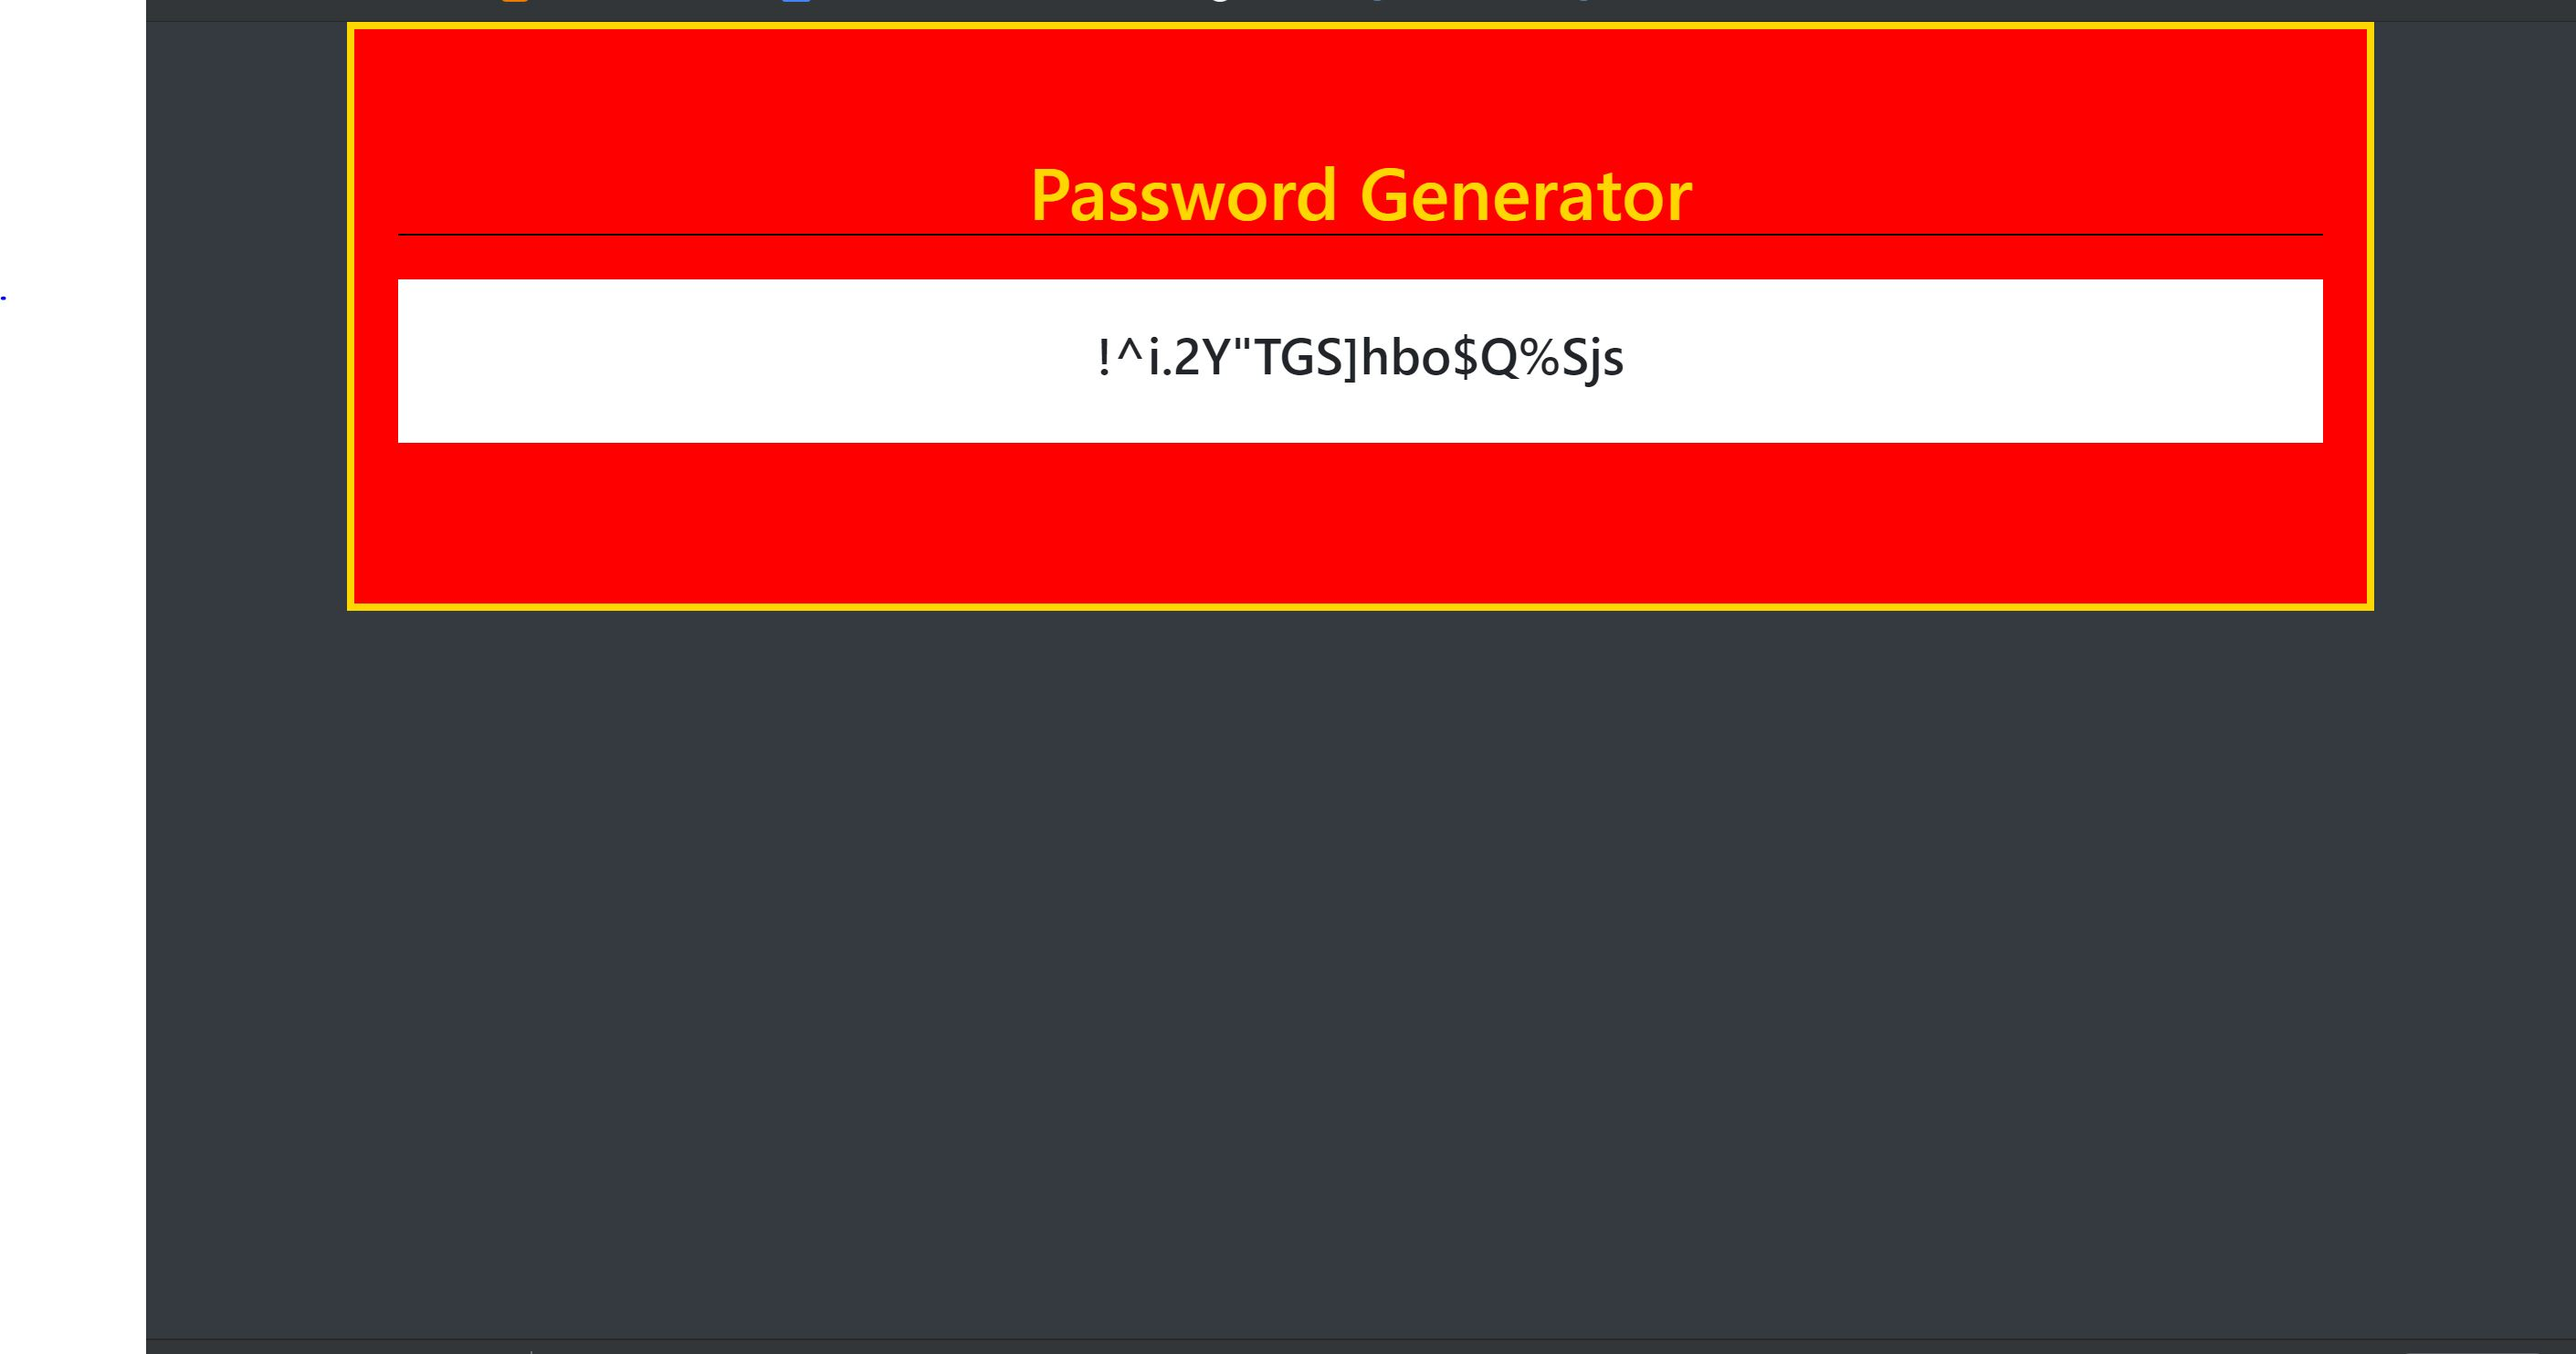
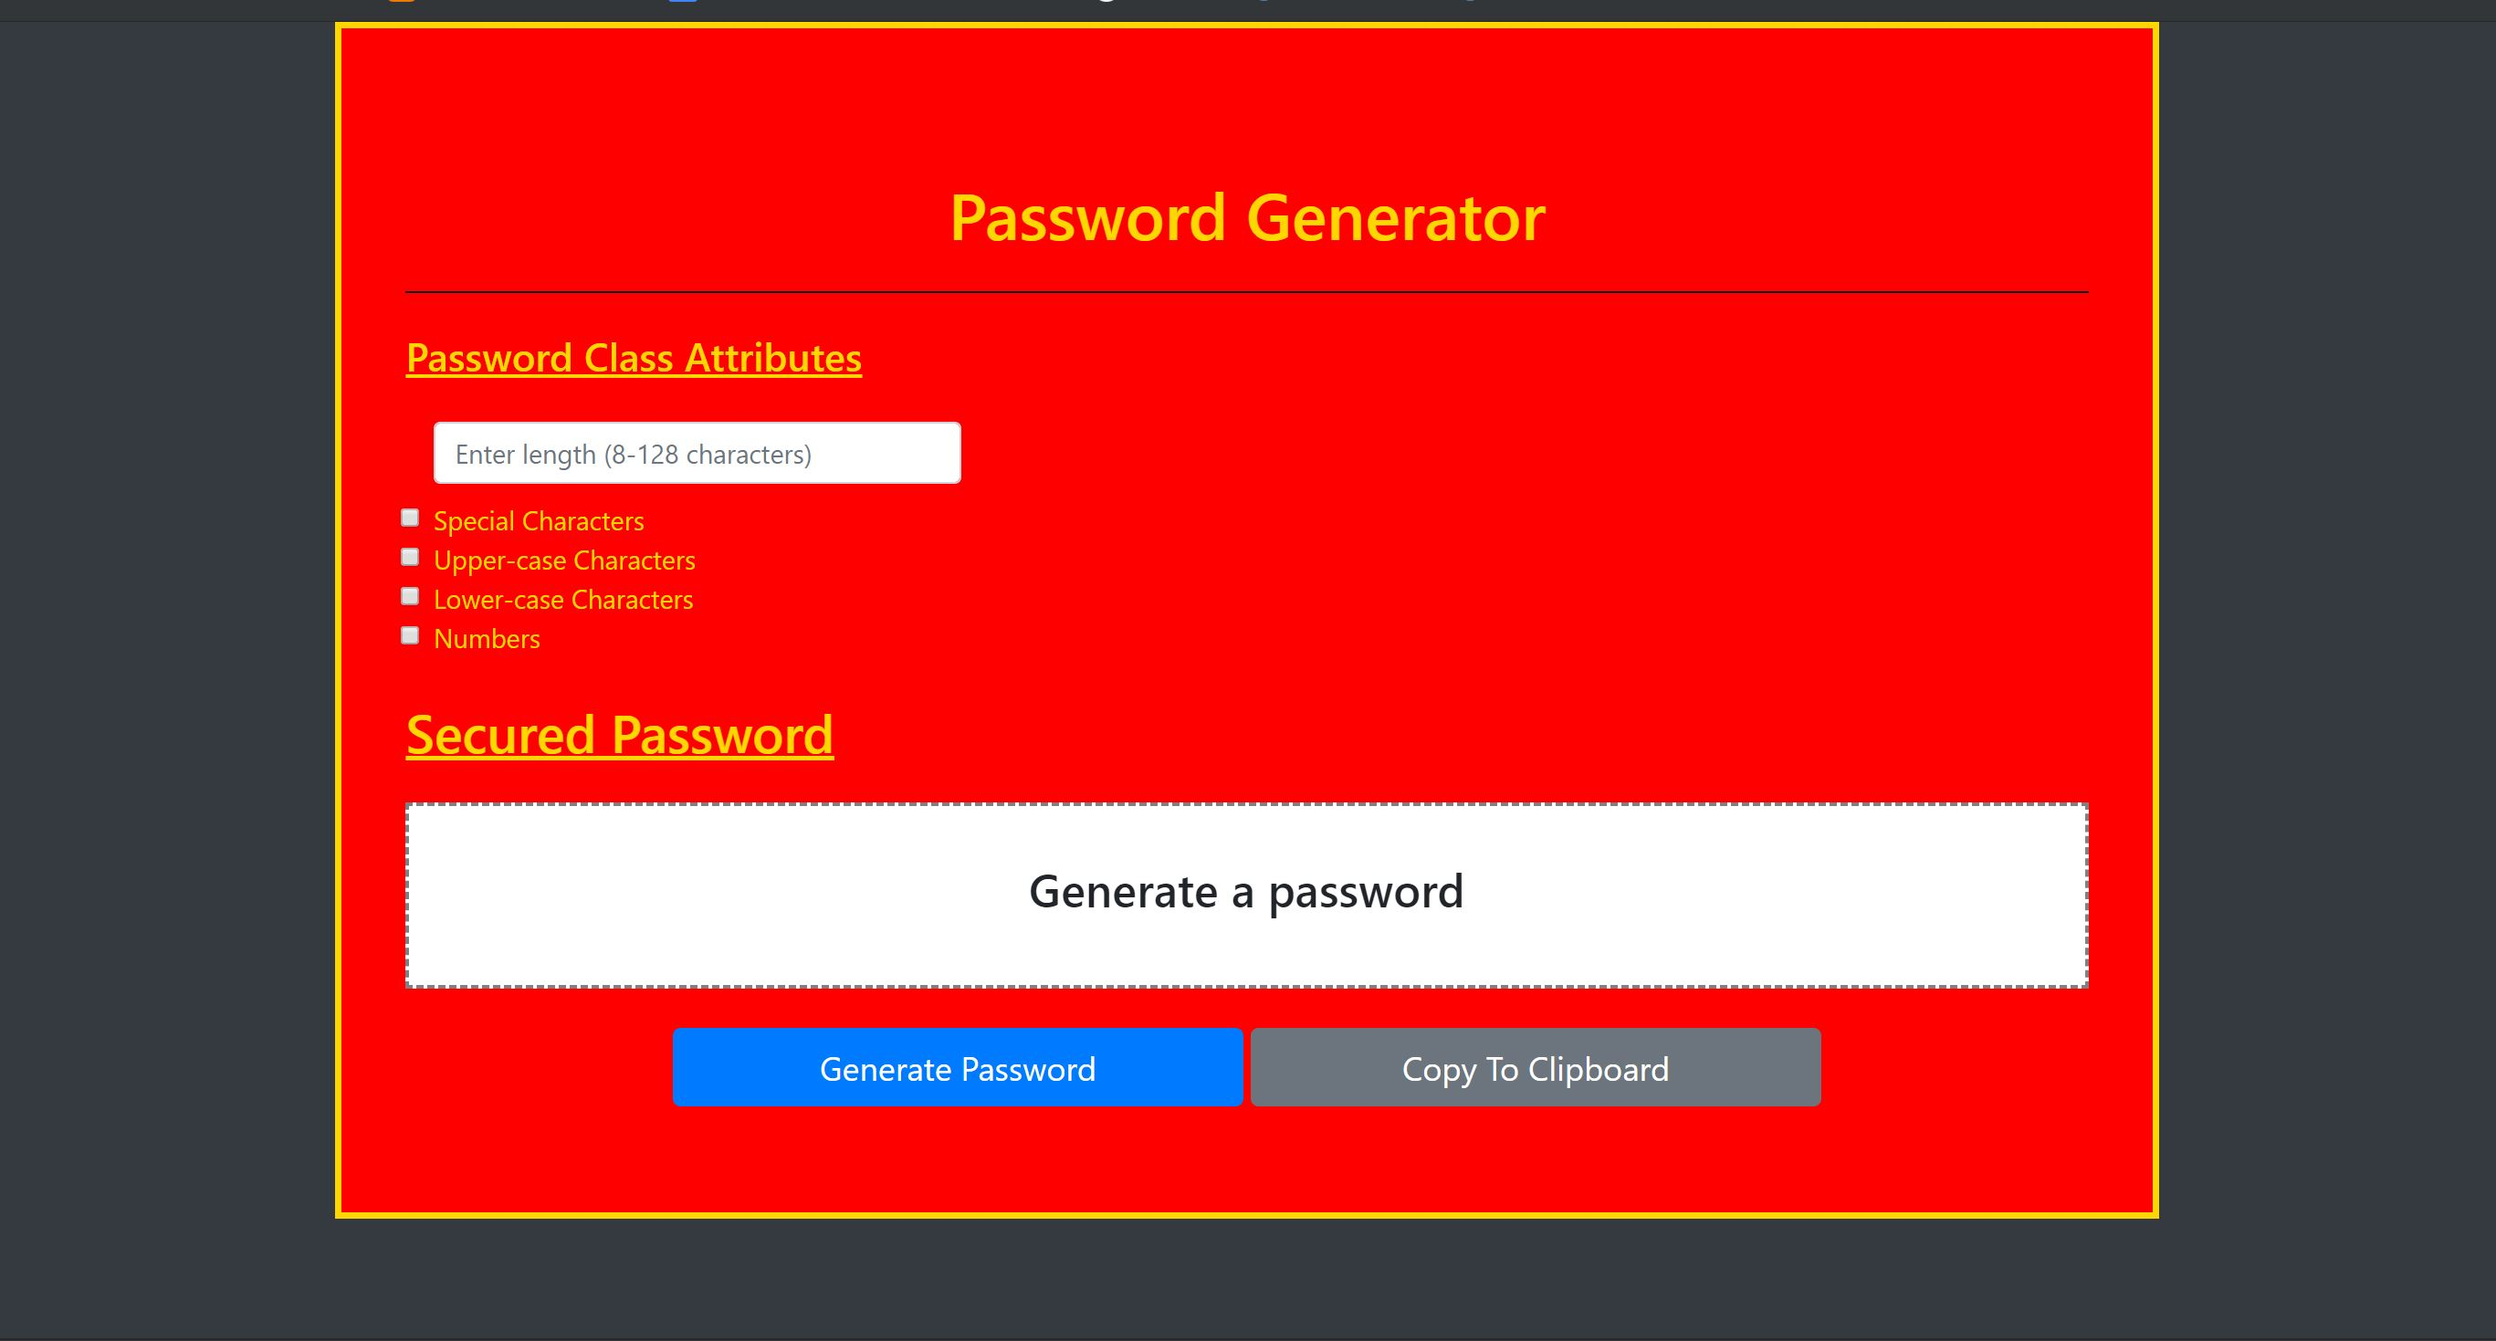
Clipboard copy functionality has been added

diff --git a/script.js b/script.js
@@ -58,8 +58,10 @@ document.getElementById("generate").addEventListener("click",function()
                         charList = charList + numbers;
                     }
 
+                document.querySelector("#password").value = pwGen(charList,passwordLength);
                 document.querySelector("#password").innerHTML = pwGen(charList,passwordLength);
-                
+                document.querySelector("#password").innertText = pwGen(charList,passwordLength);
+
             }
 
     });
@@ -67,11 +69,10 @@ document.getElementById("generate").addEventListener("click",function()
 
 
 
- document.getElementById("copy").addEventListener("click",function()
+ document.getElementById("copy").onclick = function()
     {
-        var password = document.querySelector("#password").innerText;
-        password.select;
-        password.focus;
+        var copyPW=document.getElementById("password");
+        copyPW.select();
         document.execCommand("copy");
-    
-    });
+        alert("Password has been copied to clipboard!")
+    }

diff --git a/index.html b/index.html
@@ -57,7 +57,7 @@
 
                         <div class="row"> 
                             <div class="container">
-                                <h3 class="formHeading" id="password"> Generate a password</h3>                            
+                                <input class="formHeading" style="font:1.2em;" id="password" value ="Generate Password">              
                             </div>
                         </div>
 

diff --git a/style.css b/style.css
@@ -55,3 +55,12 @@
     margin-right: 26px;
     
 }
+
+#password{
+    font-size:1.2em;
+    font-family:'Lucida Sans', 'Lucida Sans Regular', 'Lucida Grande', 'Lucida Sans Unicode', Geneva, Verdana, sans-serif;
+    margin: 0;
+    width:100%;
+    height:auto;
+    border:none;
+}
